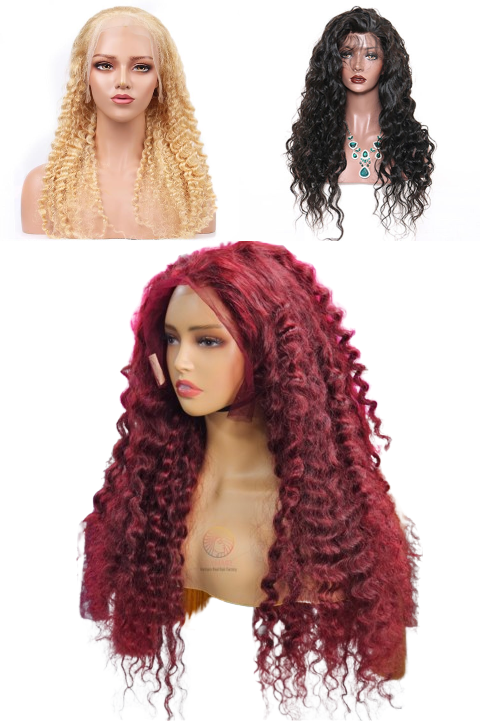
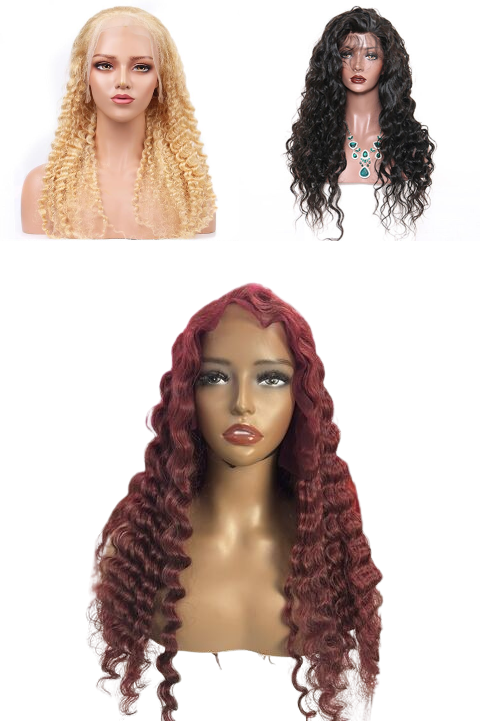
push chnages

Changed region(s): [[0.1562, 0.3356, 0.875, 1.0]]

diff --git a/src/Data/CustomizeDataUnisex.js b/src/Data/CustomizeDataUnisex.js
@@ -91,11 +91,11 @@ const BL_66111_1 = require("../Assets/welcome_3ds/others/Wig/body_wave/BL66111-1
 const BL_66122_1 = require("../Assets/welcome_3ds/others/Wig/body_wave/BL66122-1-.png");
 
 //bone straight
-const burgary = require("../Assets/welcome_3ds/others/Wig/bone straight/burgandy_bone_straight-.png");
+const burgary = require("../Assets/welcome_3ds/others/Wig/bone straight/burgandy_bone_straight-.jpg");
 const blonde = require("../Assets/welcome_3ds/others/Wig/bone straight/blonde_bone_straight-.png");
 const natural = require("../Assets/welcome_3ds/others/Wig/bone straight/natural_black_bone_straight-.png");
 const bone_straight_profile = require("../Assets/welcome_3ds/others/Wig/bone straight/bone straight profile pic.png");
-const brown = require("../Assets/welcome_3ds/others/Wig/bone straight/brown_bone_straight-.png");
+const brown = require("../Assets/welcome_3ds/others/Wig/bone straight/brown_bone_straight-.jpg");
 
 //deep wave
 const deepWaveburgundy = require("../Assets/welcome_3ds/others/Wig/deep_wave/burgandy deeo wave.png");
@@ -105,9 +105,9 @@ const deep_wave_profile = require("../Assets/welcome_3ds/others/Wig/deep_wave/de
 
 //straight hair
 const straight_profile = require("../Assets/welcome_3ds/others/Wig/straight_hair/straight hair profile pic.png");
-const straight_blonde = require("../Assets/welcome_3ds/others/Wig/straight_hair/blonde straight hair.png");
+const straight_blonde = require("../Assets/welcome_3ds/others/Wig/straight_hair/blonde straight hair.jpg");
 const straight_black = require("../Assets/welcome_3ds/others/Wig/straight_hair/natural black staight hair.png");
-const straight_red = require("../Assets/welcome_3ds/others/Wig/straight_hair/red straight hair.png");
+const straight_red = require("../Assets/welcome_3ds/others/Wig/straight_hair/burgundy straight hair.jpg");
 
 //jerry curl
 const jerry_burgundy = require("../Assets/welcome_3ds/others/Wig/jerry_curl/burgandy-jerry curly.png");
@@ -152,8 +152,8 @@ export const mainUnisex = [
 
   {
     id: uuid(),
-    name: "Round Nails",
-    link: "/configurator-nails/Round Nails",
+    name: "Oval Nails",
+    link: "/configurator-nails/Oval Nails",
     image:
       "https://stylemissus.com/cdn/shop/products/product-image-1295848768.jpg?v=1584041580",
     model: round_nails_model,
@@ -187,7 +187,9 @@ export const mainUnisex = [
   {
     id: uuid(),
     name: "Spiral Curls Braids Wig",
-    image: box_braid,
+    // image: box_braid,
+    image:
+      "https://i.etsystatic.com/23022969/r/il/d63d4a/2662177642/il_570xN.2662177642_cn66.jpg",
     price: 100,
     readyIn: 7,
     link: "/configurator-wig/Spiral Curls Braids Wig",
@@ -202,7 +204,9 @@ export const mainUnisex = [
   {
     id: uuid(),
     name: "Straight Hair Wig",
-    image: straight_profile,
+    // image: straight_profile,
+    image:
+      "https://encrypted-tbn0.gstatic.com/images?q=tbn:ANd9GcR-RVAUN2TVBo7_neZczkqVgdgtlxJqA-gXFLXBqPBshRu1tHGKAzmfwAoJSuITiRDxwl8&usqp=CAU",
     price: 100,
     readyIn: 7,
     link: "/configurator-wig/Straight Hair Wig",
@@ -212,7 +216,9 @@ export const mainUnisex = [
   {
     id: uuid(),
     name: "Jerry Curl Wig",
-    image: jerry_profile,
+    // image: jerry_profile,
+    image:
+      "https://encrypted-tbn0.gstatic.com/images?q=tbn:ANd9GcQqVJFwrGbe43Vdrdby0VydLSMoLUr0DZUCpZQqtTowbg&s",
     price: 100,
     readyIn: 7,
     link: "/configurator-wig/Jerry Curl Wig",
@@ -231,23 +237,25 @@ export const mainUnisex = [
     colorVariants: [
       BL_66040_1,
       BL_11017_1,
-      BL_11018_1,
+      // BL_11018_1,
       BL_11026_1,
       BL_11036_1,
-      BL_66010_1,
-      BL_66060_1,
-      BL_66069_1,
-      BL_66084_1,
-      BL_66110_1,
-      BL_66111_1,
-      BL_66122_1,
+      // BL_66010_1,
+      // BL_66060_1,
+      // BL_66069_1,
+      // BL_66084_1,
+      // BL_66110_1,
+      // BL_66111_1,
+      // BL_66122_1,
     ],
     sizeGuide: hair_guide,
   },
   {
     id: uuid(),
     name: "Bone Straight Wig",
-    image: bone_straight_profile,
+    // image: bone_straight_profile,
+    image:
+      "https://encrypted-tbn0.gstatic.com/images?q=tbn:ANd9GcQRmEBHD84d3M3COWPXyRggLB1UToNpBRTwCjLmPjvSTA&s",
     price: 100,
     readyIn: 7,
     link: "/configurator-wig/Bone Straight Wig",
@@ -257,7 +265,8 @@ export const mainUnisex = [
   {
     id: uuid(),
     name: "Deep Wave Wig",
-    image: deep_wave_profile,
+    // image: deep_wave_profile,
+    image: "https://miro.medium.com/v2/resize:fit:500/0*LmS__0WK8h4ngcXd.jpg",
     price: 100,
     readyIn: 7,
     link: "/configurator-wig/Deep Wave Wig",

diff --git a/src/utils/constants.js b/src/utils/constants.js
@@ -67,45 +67,23 @@ export const braidOptions = {
     { title: "40 inches", SDamount: 1800, DDamount: 2550, SDDamount: 2750 },
   ],
 
-  curlEnd: ["Tight Curls", "Loose Curls", "Spiral Curls", "S-wave Curls"],
-
   capSize: ["Small", "Medium", "Large"],
-  additionalOption: ["Fringe", "Curtain Bangs", "Side Bangs"],
-  laceType: [
-    "Swiss lace",
-    "HD lace",
-    "Transparent lace",
-    "None (for those who prefer a non-lace wig)",
-  ],
-  typeOfHair: ["Human", "Synthetic"],
-  humanHairType: [
-    "Brazilian",
-    "Cambodian",
-    "Indian",
-    "Malaysian",
-    "Mongolian",
-    "Peruvian",
-  ].sort(),
-  hairQuality: ["Single Drawn", "Double Drawn", "Super Double Drawn"],
-  hairStyling: ["Middle Part", "Side Part"],
-  hairClosure: ["Closure (4x4)", "Frontal (13 x 4)"],
-  hamanHairGrades: [],
 };
 
 export const boxWaveOptions = {
   colors: [
     "Natural Black",
     "Dark Brown",
-    "Light Brown",
+    // "Light Brown",
     "Blonde",
-    "Red",
-    "Ombre Black to Blonde",
-    "Ombre Brown to Caramel",
-    "Ombre Blonde to Platinum Blonde",
-    "Ombre Dark Brown to Light Brown",
-    "Ombre Burgundy to Pink",
-    "Ombre Purple to Lavender",
-    "Ombre Blue to Teal",
+    "Burgundy",
+    // "Ombre Black to Blonde",
+    // "Ombre Brown to Caramel",
+    // "Ombre Blonde to Platinum Blonde",
+    // "Ombre Dark Brown to Light Brown",
+    // "Ombre Burgundy to Pink",
+    // "Ombre Purple to Lavender",
+    // "Ombre Blue to Teal",
     // "Ombre Red to Orange",
   ],
 
@@ -169,7 +147,7 @@ export const boxWaveOptions = {
 };
 
 export const boneStrightWigOptions = {
-  colors: ["Burgundy", "Natural", "Blonde", "Brown"],
+  colors: ["Burgundy", "Natural Black", "Blonde", "Brown"],
 
   length: [
     { title: "8 inches", SDamount: 1450, DDamount: 1560, SDDamount: 1800 },
@@ -231,7 +209,7 @@ export const boneStrightWigOptions = {
 };
 
 export const deepWaveWigOptions = {
-  colors: ["Burgary", "Natural", "Blonde"],
+  colors: ["Burgundy", "Natural Black", "Blonde"],
 
   length: [
     { title: "8 inches", SDamount: 700, DDamount: 1000, SDDamount: 1200 },
@@ -288,7 +266,7 @@ export const deepWaveWigOptions = {
 };
 
 export const straightHairWigOptions = {
-  colors: ["Black", "Blonde", "Red"],
+  colors: ["Natural Black", "Blonde", "Burgundy"],
 
   length: [
     { title: "8 inches", SDamount: 700, DDamount: 1000, SDDamount: 1200 },

diff --git a/src/Pages/Customize/Configurator/ConfiguratorNails.js b/src/Pages/Customize/Configurator/ConfiguratorNails.js
@@ -254,9 +254,9 @@ const ConfiguratorUnisex = () => {
   };
 
   const nailOptions = useMemo(() => {
-    if (selectedClothing.name.contains("Wig")) {
-      return;
-    }
+    // if (selectedClothing.name.contains("Wig")) {
+    //   return;
+    // }
     // if (selectedClothing.name === "Body Wave Wig") {
     //   return;
     // }
